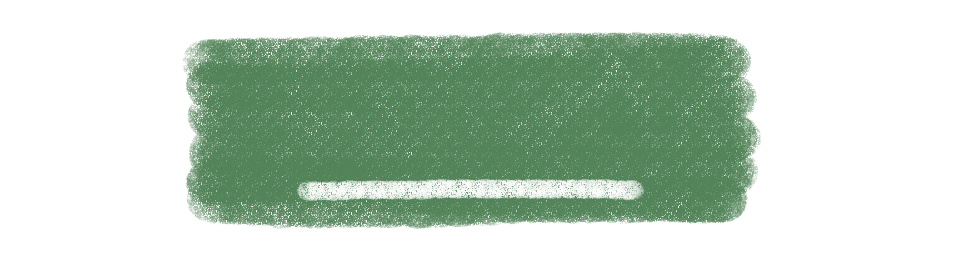
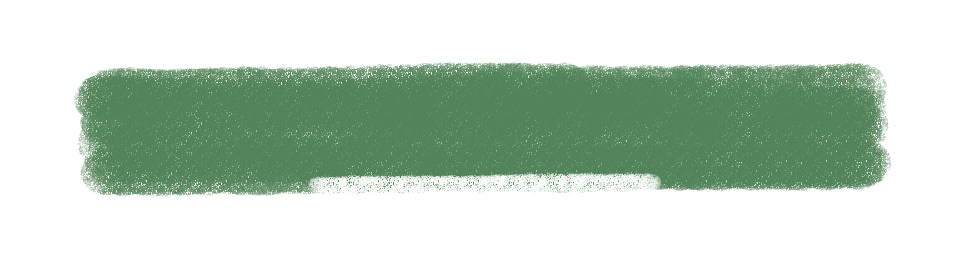
updated land bg

diff --git a/main.js b/main.js
@@ -3,7 +3,7 @@ $(document).ready(function () {
 
 
     $('.nav_menu').hide();
-    $('.menu_button').hide();
+
 
     setTimeout(function () {
         $('.title h2').fadeIn(1000);
@@ -73,28 +73,26 @@ $(document).scroll(function () {
 
     $('.trigger_point').each(function () {
         var trigger_position = $(this).offset().top;
-        console.log('Target position: ', trigger_position);
+        //console.log('Target position: ', trigger_position);
         if (trigger_position <= bottomPosition) {
             sectionArray[sectionArray.length] = this;
-            console.log('SectionArray ', sectionArray);
+            //console.log('SectionArray ', sectionArray);
         }
     });
 
-    $('.about, .projects, .skills, .contact').removeClass('js_hover');
+    //$('.about, .projects, .skills, .contact').removeClass('js_hover');
 
     if (sectionArray.length) {
         var highlighted_section = $(sectionArray[sectionArray.length - 1]).attr('data-indicator');
-        console.log('Data-indicator: ', highlighted_section);
+        //console.log('Data-indicator: ', highlighted_section);
         $(highlighted_section).addClass('js_hover');
 
-        $('.menu_button').fadeIn(1000);
+        $('.menu_button').css({'opacity': '1'});
         $('.nav_menu').css({"display": "none"});
-
 
         /*If menu button clicked is same as current page, hide navigation menu*/
         $('.menu_click').on('click', function () {
             if (highlighted_section == $(this).attr('click')){
-
                 $('.nav_menu').css({"display": "none"});
             }
         });
@@ -102,7 +100,18 @@ $(document).scroll(function () {
     } else {
         $('.nav_menu').css({"display": "none"});
         $('.title').fadeIn(1000);
-        $('.menu_button').fadeOut(1000);
+        if ($(window).width() > 768) {
+            $('.menu_button').css({'opacity': '0'});
+        } else {
+            $('.menu_button').css({'opacity': '1'});
+        }
+        $(window).resize(function() {
+            if ($(window).width() > 768) {
+                $('.menu_button').css({'opacity': '0'});
+            } else {
+                $('.menu_button').css({'opacity': '1'});
+            }
+        });
     }
 });
 

diff --git a/responsive.css b/responsive.css
@@ -4,11 +4,12 @@
     Navgation
     ************************************/
     .menu_button {
-        font-size: 6vw;
+        font-size: 8vw;
+        opacity: 1;
     }
 
     .nav_menu p {
-        font-size: 4vw;
+        font-size: 5vw;
     }
 
     .about, .skills, .projects, .contact {
@@ -18,19 +19,37 @@
     /************************************
         Landing Page
     ************************************/
-    .landing_div {
-        overflow: hidden;
-        position: relative;
-        top: 0;
-        left: 0;
-        max-width: 100%;
-        height: 100vh;
-        background: #000 url('img/land.jpg') no-repeat 50% 50%;
+
+    .land_text::before {
+        background: transparent url('img/trevlandbgtrans.png') no-repeat 50% 50%;
         background-size: cover;
-        color: #fff;
-        padding: 0;
-        z-index: -2;
-        blur: 5px;
+        opacity: .25;
+    }
+
+    .land_text .title h1 {
+        position: absolute;
+        width: 100%;
+        text-align: center;
+        left: 50%;
+        top: 40%;
+        transform: translate(-50%, -50%);
+        font-weight: 200;
+        font-size: 8vw;
+        opacity: 0;
+
+    }
+
+
+    .title h3 {
+        position: absolute;
+        width: 100%;
+        text-align: center;
+        left: 50%;
+        top: 50%;
+        transform: translate(-50%, -20%);
+        font-weight: 200;
+        font-size: 5vw;
+        opacity: 0;
     }
 
     /************************************
@@ -73,6 +92,18 @@
     ************************************/
 
 
+
+}
+
+@media screen and (max-width: 360px) {
+
+    /************************************
+    Navgation
+    ************************************/
+    .menu_button {
+        font-size: 10vw;
+        opacity: 1;
+    }
 
 }
 

diff --git a/style.css b/style.css
@@ -25,6 +25,7 @@ Navigation menu
     position: fixed;
     top: 0;
     z-index: 100;
+    width: 100vw;
     height: 0;
     color: #fff;
     padding: 0;
@@ -32,12 +33,14 @@ Navigation menu
 }
 
 .menu_button {
-    position: absolute;
+    opacity: 0;
+    position: fixed;
     top: 10px;
     right: 10px;
     font-size: 2.5vw;
     cursor: pointer;
     z-index: 200;
+    transition-duration: .5s;
 }
 
 .nav_menu a {
@@ -51,17 +54,17 @@ Navigation menu
 }
 
 .nav_menu p {
-    position: absolute;
-    top: 50%;
-    left: 50%;
-    transform: translate(-50%, -50%);
-    font-size: 3vw;
-    font-weight: 200;
-    color: #fff;
-    text-align: center;
-    opacity: 1;
+     position: absolute;
+     top: 50%;
+     left: 50%;
+     transform: translate(-50%, -50%);
+     font-size: 3vw;
+     font-weight: 200;
+     color: #fff;
+     text-align: center;
+     opacity: 1;
 
-}
+ }
 
 /*.top_nav {*/
     /*position: absolute;*/
@@ -469,12 +472,12 @@ PAGE: Landing Page
 .land_text::before {
     position: absolute;
     content: '';
-    opacity: .5;
+    opacity: .65;
     top: 0;
     left: 0;
     right: 0;
     bottom: 0;
-    background: #000 url('img/trevlandbg.jpg') no-repeat 50% 50%;
+    background: transparent url('img/trevlandbgalttrans.png') no-repeat 50% 50%;
     background-size: cover;
     transition-duration: 2s;
     transition-delay: 1s;

diff --git a/index.html b/index.html
@@ -105,7 +105,7 @@
             <h3>WEB DEVELOPER</h3>
         </div>
     </div>
-    <div class="col-sm-6 land_menu">
+    <div class="hidden-xs col-sm-6 land_menu">
         <div class="col-xs-12 land_about">
             <a href="#about">
                 <p>ABOUT</p>
